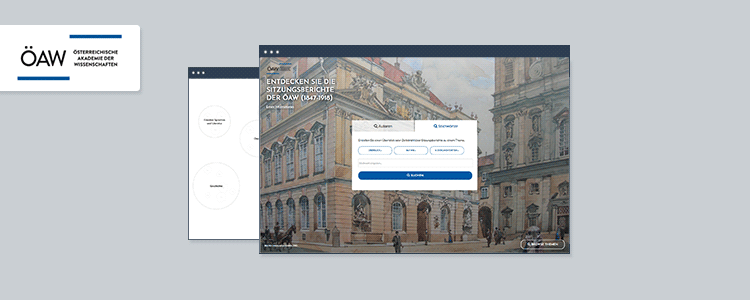
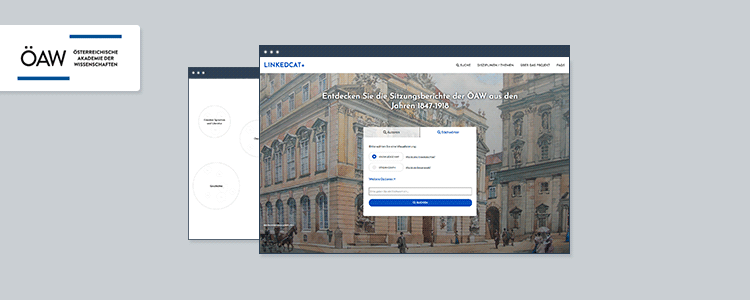
updated linkedcat project pics

Changed region(s): [[0.3373, 0.18, 0.7667, 0.87]]

diff --git a/css/main.css b/css/main.css
@@ -236,6 +236,9 @@ a.newsletter:hover, a.newsletter:active, a.newsletter:focus {
     background-color: #eff3f4;
     background-repeat: no-repeat;
     background-position: 50%;
+    background-attachment: fixed;
+    background-position: center center;
+    background-size: 100%;
 }
 
 .landscape-teaser-text {
@@ -2618,7 +2621,7 @@ time {
     .vision p {
         font-size: 14px;
     }
-    
+
     .newsitem-p, .newsitem-button, blockquote, .become-enthusiast, .newsitem-blockquote, .newsitem-blockquote-single, .abstract {
         font-size: 14px;
     }
